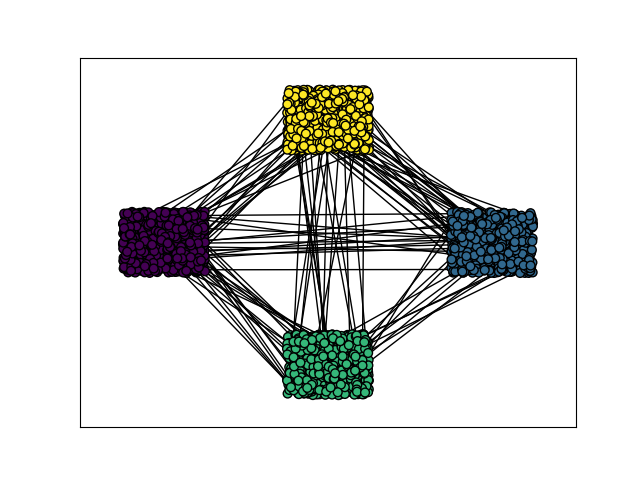
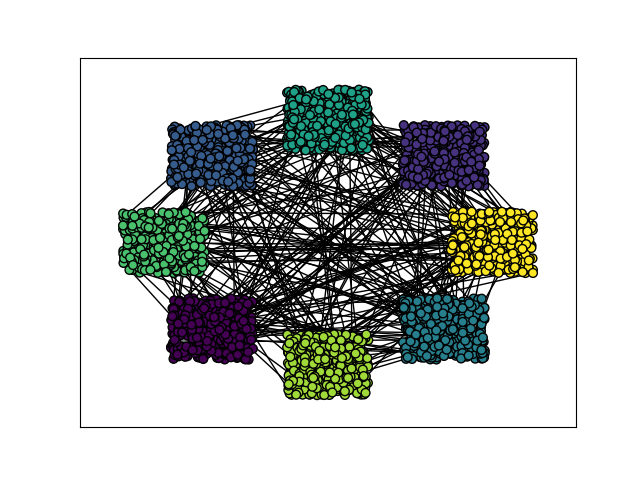
nishy orz

Changed region(s): [[0.1875, 0.1562, 0.8438, 0.8438]]

diff --git a/cellular_automata/partitioning.py b/cellular_automata/partitioning.py
@@ -34,7 +34,9 @@ except ImportError:
     matplotlib.use("agg")
     import matplotlib.pyplot as plt
 
-
+rishicodefunky = createNewForest()
+rishisigma = list(itertools.islice({(i, j) for i in range(MAP_WIDTH) for j in range(MAP_HEIGHT)}, 120))
+rishimonkey = simulator.main(60, rishicodefunky, rishisigma, rishicodefunky[0])
 
 def build_graph(graph, nodes, degree, prob, p_in, p_out, new_edges, k_partition):
     """Builds graph from user specified parameters or use defaults.
@@ -96,8 +98,38 @@ def visualize_input_graph(G):
     Returns:
         None. Image saved as input_graph.png.
     """
+    def hierarchy_pos(G, root=None, width=1., vert_gap = 0.2, vert_loc = 0, xcenter = 0.5):
+        if not nx.is_tree(G):
+            raise TypeError('cannot use hierarchy_pos on a graph that is not a tree')
 
-    pos = nx.random_layout(G)
+        if root is None:
+            if isinstance(G, nx.DiGraph):
+                root = next(iter(nx.topological_sort(G)))  #allows back compatibility with nx version 1.11
+            else:
+                root = random.choice(list(G.nodes))
+
+        def _hierarchy_pos(G, root, width=1., vert_gap = 0.2, vert_loc = 0, xcenter = 0.5, pos = None, parent = None):
+
+            if pos is None:
+                pos = {root:(xcenter,vert_loc)}
+            else:
+                pos[root] = (xcenter, vert_loc)
+            children = list(G.neighbors(root))
+            if not isinstance(G, nx.DiGraph) and parent is not None:
+                children.remove(parent)  
+            if len(children)!=0:
+                dx = width/len(children) 
+                nextx = xcenter - width/2 - dx/2
+                for child in children:
+                    nextx += dx
+                    pos = _hierarchy_pos(G,child, width = dx, vert_gap = vert_gap, 
+                                        vert_loc = vert_loc-vert_gap, xcenter=nextx,
+                                        pos=pos, parent = root)
+            return pos
+
+                
+        return _hierarchy_pos(G, root, width, vert_gap, vert_loc, xcenter)
+    pos = hierarchy_pos(G, rishimonkey[3][(MAP_WIDTH//2, MAP_HEIGHT//2)])
     nx.draw_networkx_nodes(G, pos, node_size=20, node_color='r', edgecolors='k')
     nx.draw_networkx_edges(G, pos, edgelist=G.edges(), style='solid', edge_color='#808080')
     plt.draw()
@@ -282,13 +314,10 @@ def visualize_results(G, partitions, soln):
               type=click.FloatRange(0, 1), default=0.001, show_default=True)
 @click.option("-e", "--new-edges", help="Set number of edges from new node to existing node in SF graph.",
               default=4, type=click.IntRange(1), show_default=True)
-@click.option("-k", "--k-partition", help="Set number of partitions to divide graph into.", default=4,
+@click.option("-k", "--k-partition", help="Set number of partitions to divide graph into.", default=8,
               type=click.IntRange(2), show_default=True)
 def main(graph, nodes, degree, prob, p_in, p_out, new_edges, k_partition):
-    rishicodefunky = createNewForest()
-    rishisigma = list(itertools.islice({(i, j) for i in range(MAP_WIDTH) for j in range(MAP_HEIGHT)}, 120))
-    G = simulator.main(60, rishicodefunky, rishisigma, rishicodefunky[0])[2]
-    #G = build_graph(graph, nodes, degree, prob, p_in, p_out, new_edges, k_partition)
+    G = rishimonkey[2]
 
     visualize_input_graph(G)
 

diff --git a/cellular_automata/simulator.py b/cellular_automata/simulator.py
@@ -141,7 +141,7 @@ def main(SIM_LENGTH, input_for, cburns, rawFor):
                         for iy in range(-1,2):
                             if (x+ix)>=0 and (y+iy) >= 0:
                                 if (x+ix)<=(MAP_WIDTH-1) and (y+iy) <= (MAP_HEIGHT -1):
-                                    tOF = (random.random() < .33)
+                                    tOF = (random.random() < 0.33)
                                     if (forest[y+iy][x+ix] == "L" or forest[y+iy][x+ix] == "M" or forest[y+iy][x+ix] == "H") and (tOF):
                                         if (y+iy, x+ix) not in setOfBurned:
                                             treeOfBurned.add_edge((y, x), (y+iy, x+ix))
